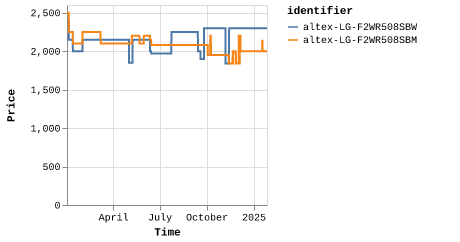
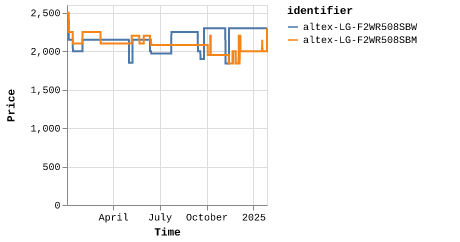
Latest scraping spalat: Mon Jan 27 12:59:10 UTC 2025

diff --git a/scrapes/spalat/altex-LG-F2WR508SBM.md b/scrapes/spalat/altex-LG-F2WR508SBM.md
@@ -1,3 +1,3 @@
-1999
+2299
 
 [Source](https://altex.ro/masina-de-spalat-rufe-frontala-slim-lg-f2wr508sbm-steam-8-kg-1200rpm-clasa-a-negru/cpd/MSFF2WR508SBM/)
